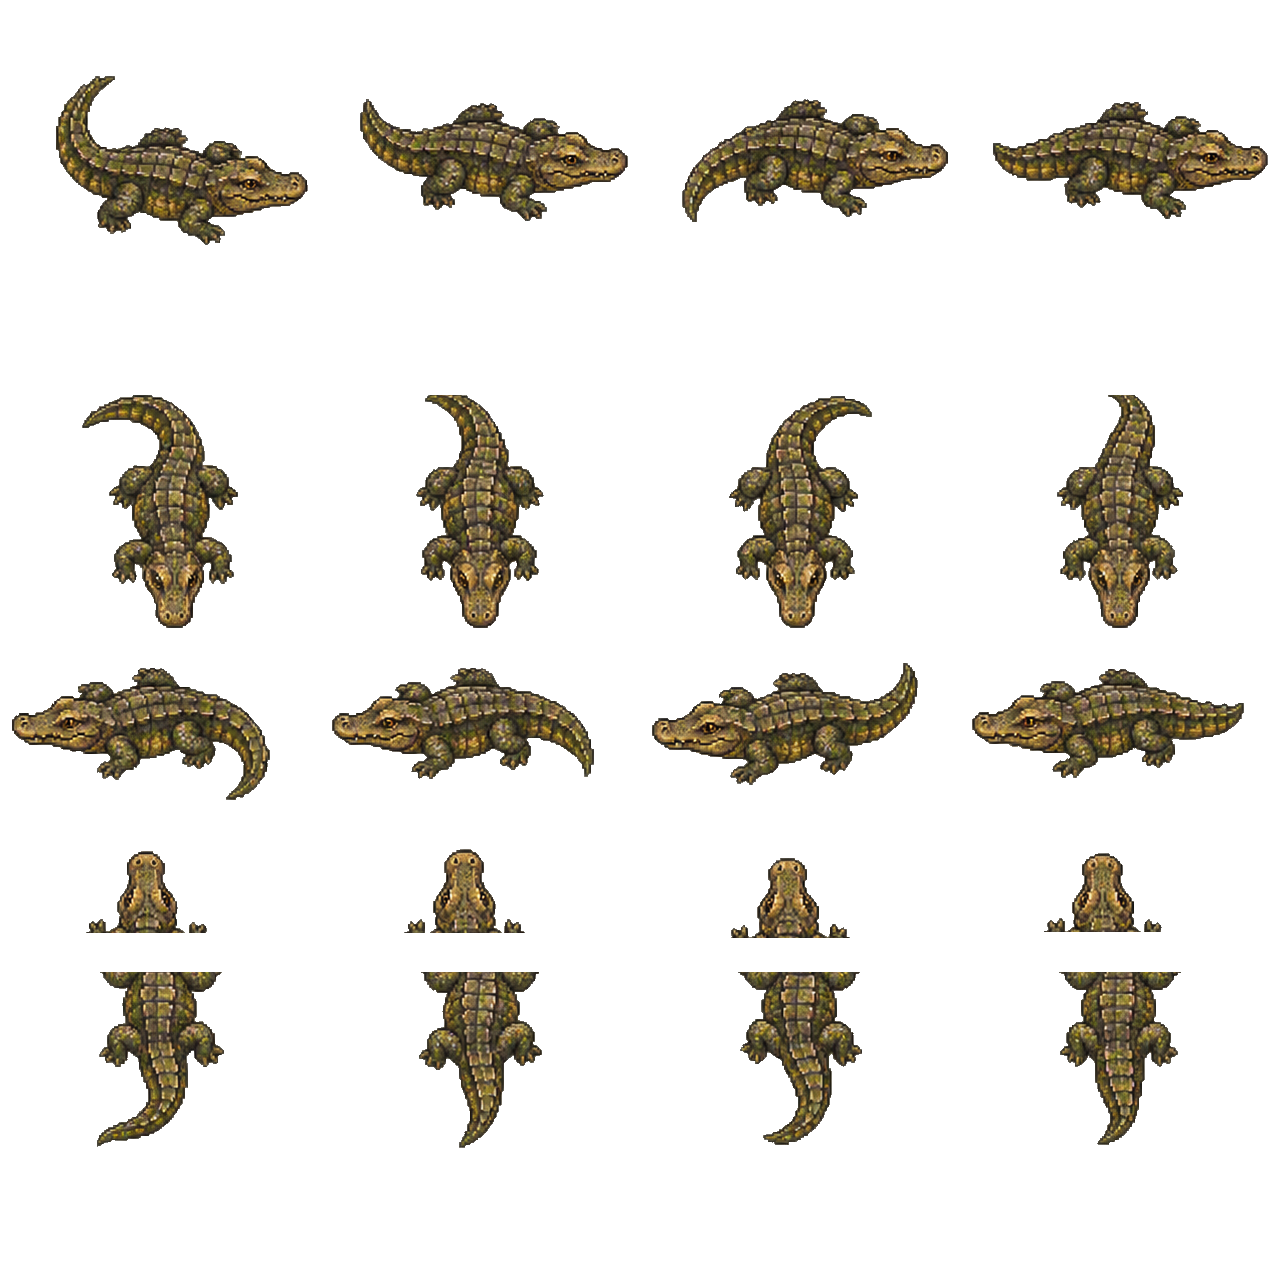
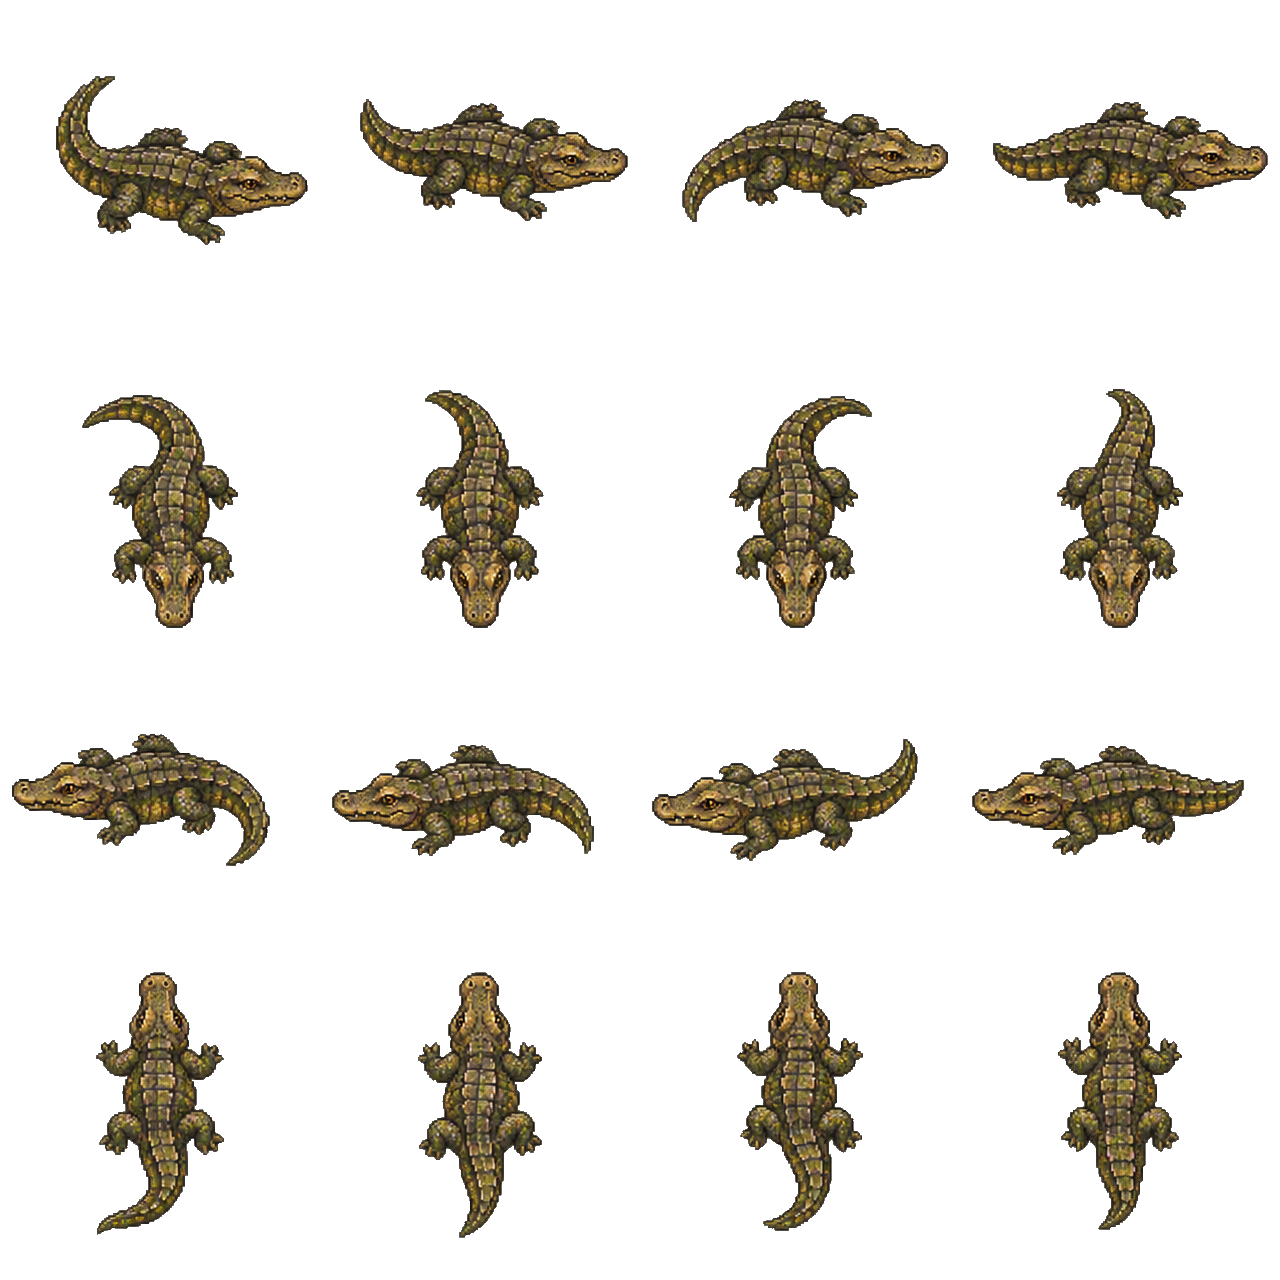
Submerge o jacaré e escurece a água do Pântano

diff --git a/src/swamp-world.ts b/src/swamp-world.ts
@@ -4,7 +4,9 @@ import type { MapEditData, TerrainKind } from './systems/map-editor';
 import { natureArt } from './data/nature-catalog';
 import { createSwampLayout, SWAMP_SIZE, swampEntry, swampExit, swampTrailDistance, swampWaterDistance, tileCenter } from './data/swamp';
 import { SWAMP_GROUND, SWAMP_KINDS, SWAMP_ART } from './data/swamp-art';
-import { directionFromVector } from './character-directions';
+import type { CharacterDirection } from './character-directions';
+import { caimanHeadCrop } from './data/caiman-swim';
+import { WaterEffects } from './swimming/water-effects';
 import { readTerrainSprites } from './terrain-sprites';
 import { terrainPaintAlpha } from './data/terrain-paint';
 import { waterFinishChannel } from './data/water-style';
@@ -14,6 +16,7 @@ import frames from '../public/assets/visual/swamp/animals.json';
 
 const ROOT='assets/visual/swamp/';
 const TEXTURE_SIZE=128;
+const WATER_SHADE=[.72,.74,.65] as const;
 type Ground=typeof SWAMP_GROUND[number];
 const paintMaterial:Partial<Record<TerrainKind,Ground>>={
   grass:'sod',meadow:'sod',forest:'peat',moss:'peat',forestPath:'mud',path:'mud',wetPath:'mud',soil:'mud',sand:'silt',
@@ -81,7 +84,7 @@ function bakeGround(scene:Phaser.Scene,layout:ReturnType<typeof createSwampLayou
         let value=(bank*(1-trail)+mud[sample+k]*trail)*variation;
         if(material)value=value*(1-alpha)+materials[material][sample+k]*alpha;
         if(custom)value=value*(1-alpha)+custom.pixels[((py%custom.size)*custom.size+px%custom.size)*4+k]*alpha;
-        rgba[i+k]=waterPoint?waterFinishChannel(water.pixels[wav+k],k,-12):value;
+        rgba[i+k]=waterPoint?waterFinishChannel(water.pixels[wav+k],k,Math.min(0,distance))*WATER_SHADE[k]:value;
       }
       rgba[i+3]=255;
     }
@@ -90,6 +93,14 @@ function bakeGround(scene:Phaser.Scene,layout:ReturnType<typeof createSwampLayou
   return canvas;
 }
 
+function showCaimanHead(sprite:Phaser.GameObjects.Sprite,frame:number,x:number,y:number):void {
+  const crop=caimanHeadCrop(frame,frames.caiman);
+  sprite.setFrame(frame).setCrop(crop.x,crop.y,crop.width,crop.height)
+    .setOrigin((crop.x+crop.width/2)/frames.caiman,(crop.y+crop.height-2)/frames.caiman)
+    .setPosition(x,y);
+}
+
+const CAIMAN_DIRECTIONS=['right','down','left','up'] as const;
 class SwampFauna {
   private elapsed=0;
   private wait:number;
@@ -97,6 +108,8 @@ class SwampFauna {
   private to:{x:number;y:number};
   private turn=0;
   private frog:boolean;
+  private direction:CharacterDirection='right';
+  private readonly wake?:WaterEffects;
   constructor(
     private sprite:Phaser.GameObjects.Sprite,
     private home:{x:number;y:number},
@@ -105,6 +118,7 @@ class SwampFauna {
   ){
     this.frog=sprite.texture.key==='swamp-frog';
     this.from={...home};this.to={...home};this.wait=this.frog?2+index%5:0;
+    if(!this.frog)this.wake=new WaterEffects(sprite.scene);
     this.turn=index*.75;
   }
   update(dt:number):void {
@@ -136,18 +150,26 @@ class SwampFauna {
     this.elapsed+=dt;
     const a=this.turn+this.elapsed*.31;
     const p={x:this.home.x+Math.cos(a)*62,y:this.home.y+Math.sin(a)*45};
-    const sprite=this.sprite,dx=p.x-sprite.x,dy=p.y-sprite.y;
-    if(this.layout.inWater(p.x,p.y)&&!this.layout.blocked(p.x,p.y)){
-      const direction=directionFromVector(Math.abs(dx)>Math.abs(dy)?dx:0,Math.abs(dy)>=Math.abs(dx)?dy:0);
-      const row=direction==='right'?0:direction==='down'?1:direction==='left'?2:3;
-      if(Math.hypot(dx,dy)<5||this.elapsed<.1)sprite.setPosition(p.x,p.y);
-      else{
-        const distance=Math.hypot(dx,dy),step=Math.min(distance,dt*32);
-        const x=sprite.x+dx/distance*step,y=sprite.y+dy/distance*step;
-        if(this.layout.inWater(x,y)&&!this.layout.blocked(x,y))sprite.setPosition(x,y);
-      }
-      sprite.setFrame(row*4+Math.floor(this.elapsed*7)%4).setDepth(-77);
+    const dx=p.x-this.from.x,dy=p.y-this.from.y,distance=Math.hypot(dx,dy);
+    const step=Math.min(distance,dt*32);
+    const x=distance?this.from.x+dx/distance*step:this.from.x;
+    const y=distance?this.from.y+dy/distance*step:this.from.y;
+    const open=this.layout.inWater(x,y)&&!this.layout.blocked(x,y);
+    if(open&&step>.02){
+      this.from={x,y};
+      const horizontal=Math.abs(dx)>Math.abs(dy);
+      this.direction=horizontal?(dx>0?'right':'left'):(dy>0?'down':'up');
     }
+    const moving=open&&step>.02,at=this.from;
+    const wet=this.layout.inWater(at.x,at.y);
+    this.sprite.setVisible(wet);
+    if(!wet){this.wake?.hide();return;}
+    const row=CAIMAN_DIRECTIONS.findIndex(d=>d===this.direction);
+    const phase=moving?Math.floor(this.elapsed*5)%4:0;
+    const bob=this.wake?.update(at.x,at.y,1,moving,this.direction,.46,dt)??0;
+    this.wake?.graphics.setDepth(-78);
+    this.wake?.frontGraphics.setDepth(-76.9);
+    showCaimanHead(this.sprite,row*4+phase,at.x,at.y+bob*.55);
   }
 }
 
@@ -162,7 +184,7 @@ export class SwampWorld {
     this.terrainKey='swamp-ground-bake-'+(++nextTerrain);
     scene.textures.addCanvas(this.terrainKey,bakeGround(scene,this.layout,edits))!.setFilter(Phaser.Textures.FilterMode.NEAREST);
     scene.add.image(0,0,this.terrainKey).setOrigin(0).setDepth(-100);
-    if(!palette)addWaterMotion(scene,(x,y)=>this.layout.water(x*32+16,y*32+16),this.layout.water,{...SWAMP_SIZE,alpha:.4,depth:-80});
+    if(!palette)addWaterMotion(scene,(x,y)=>this.layout.water(x*32+16,y*32+16),this.layout.water,{...SWAMP_SIZE,alpha:.4,depth:-80,tint:0xaebca7});
     let index=0;
     for(const object of this.layout.objects){
       const art=natureArt(object.kind);
@@ -178,7 +200,8 @@ export class SwampWorld {
         const wet=object.kind==='swamp-caiman';
         const side=wet?108:43;
         const sprite=scene.add.sprite(p.x,p.y,texture,0).setOrigin(.5,wet?.5:.94).setDisplaySize(side,side)
-          .setDepth(wet?-77:p.y).setAlpha(wet?.87:1).setData('swamp-animal',object.kind);
+          .setDepth(wet?-77:p.y).setData('swamp-animal',object.kind);
+        if(wet)showCaimanHead(sprite,0,p.x,p.y);
         if(!palette)this.fauna.push(new SwampFauna(sprite,p,this.layout,index++));
         continue;
       }

diff --git a/src/water-motion.ts b/src/water-motion.ts
@@ -9,7 +9,7 @@ export function setupWaterSurface(scene:Phaser.Scene):string {
  const material=readTerrainSprites(scene)!.water,canvas=document.createElement('canvas');canvas.width=canvas.height=material.size;const c=canvas.getContext('2d')!,pixels=c.createImageData(material.size,material.size);
  for(let i=0;i<pixels.data.length;i+=4){for(let k=0;k<3;k++)pixels.data[i+k]=waterFinishChannel(material.pixels[i+k],k,-72);pixels.data[i+3]=255;}c.putImageData(pixels,0,0);scene.textures.addCanvas(key,canvas)!.setFilter(0);return key;
 }
-export function addWaterMotion(scene:Phaser.Scene,water:(x:number,y:number)=>boolean,contains?:(x:number,y:number)=>boolean,bounds:{width:number;height:number;alpha:number;depth?:number;opacity?:(x:number,y:number)=>number}={width:3072,height:2304,alpha:.3}):void {
+export function addWaterMotion(scene:Phaser.Scene,water:(x:number,y:number)=>boolean,contains?:(x:number,y:number)=>boolean,bounds:{width:number;height:number;alpha:number;depth?:number;tint?:number;opacity?:(x:number,y:number)=>number}={width:3072,height:2304,alpha:.3}):void {
  const point=contains??((x:number,y:number)=>water(Math.floor(x/32),Math.floor(y/32))),key=`world-water-mask-${++serial}`,canvas=document.createElement('canvas');canvas.width=bounds.width;canvas.height=bounds.height;const c=canvas.getContext('2d')!,pixels=c.createImageData(canvas.width,canvas.height);
  for(let ty=0;ty<Math.ceil(bounds.height/32);ty++)for(let tx=0;tx<Math.ceil(bounds.width/32);tx++){
   if(!water(tx,ty)&&![[1,0],[-1,0],[0,1],[0,-1]].some(([dx,dy])=>water(tx+dx,ty+dy)))continue;
@@ -17,6 +17,7 @@ export function addWaterMotion(scene:Phaser.Scene,water:(x:number,y:number)=>boo
  }
  c.putImageData(pixels,0,0);scene.textures.addCanvas(key,canvas)!.setFilter(0);const image=scene.make.image({key,x:0,y:0,add:false}).setOrigin(0),mask='gl' in scene.game.renderer?image.createBitmapMask():undefined;
  const flow=scene.add.tileSprite(0,0,bounds.width,bounds.height,setupWaterSurface(scene)).setOrigin(0).setAlpha(bounds.alpha).setDepth(bounds.depth??-80).setVisible(!!mask).setData('water-surface',true),fish=scene.add.graphics().setDepth((bounds.depth??-80)-1).setData('water-fish',true),waves=scene.add.graphics().setDepth((bounds.depth??-80)+1).setData('water-reflections',true);
+ if(bounds.tint!==undefined)flow.setTint(bounds.tint);
  if(mask){flow.setMask(mask);fish.setMask(mask);waves.setMask(mask);}const schools=waterSchools(point);let destroyed=false;
  const update=(time:number)=>{if(destroyed)return;flow.tilePositionX=-time*.007;flow.tilePositionY=time*.0035;fish.clear();waves.clear();for(const p of waterFish(time,schools,point)){fish.save();fish.translateCanvas(p.x,p.y);fish.rotateCanvas(p.angle);fish.fillStyle(0x0a3034,p.alpha);fish.fillEllipse(0,0,15*p.size,5.5*p.size);fish.fillTriangle(-5*p.size,0,-12*p.size,-4*p.size,-12*p.size,4*p.size);fish.restore();}
   for(let i=0;i<112;i++){const phase=(time*.00013+i*.618)%1,x=32+(i*537.31)%3008+Math.sin(time*.0003+i)*9,y=32+(i*283.17)%2240+phase*12;if(!point(x,y))continue;const radius=8+phase*18;waves.lineStyle(1,0xb1ddd2,Math.sin(phase*Math.PI)*(.1+(i%4)*.025));waves.beginPath();for(let j=0;j<=6;j++){const px=x+(j/6-.5)*radius*2,py=y+Math.sin(j/6*Math.PI)*2;j?waves.lineTo(px,py):waves.moveTo(px,py);}waves.strokePath();}

diff --git a/src/data/caiman-swim.ts b/src/data/caiman-swim.ts
@@ -1,0 +1,16 @@
+/** Coordenadas no atlas do Pântano. Cada recorte termina antes das patas. */
+const SIDE_HEAD_Y = [
+  [147,124,121,122],
+  [111,121,127,122],
+] as const;
+const FRONT_HEAD_CENTER = [173,160,156,159] as const;
+
+export function caimanHeadCrop(frame:number,side:number):{x:number;y:number;width:number;height:number}{
+  const phase=frame%4;
+  switch(Math.floor(frame/4)){
+    case 0:return {x:side-91,y:SIDE_HEAD_Y[0][phase],width:79,height:68};
+    case 1:return {x:FRONT_HEAD_CENTER[phase]-34,y:side-82,width:68,height:70};
+    case 2:return {x:12,y:SIDE_HEAD_Y[1][phase],width:78,height:68};
+    default:return {x:124,y:12,width:68,height:72};
+  }
+}
